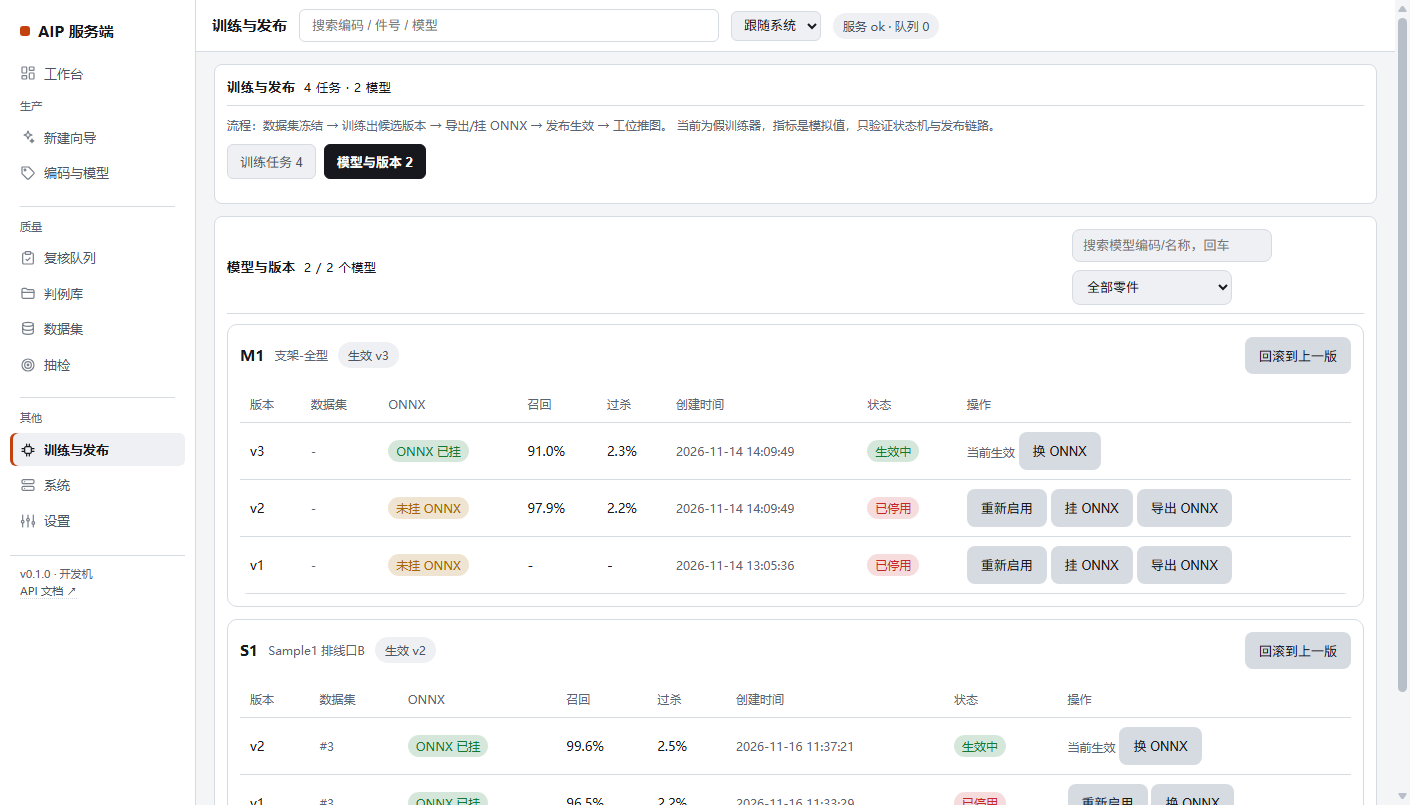
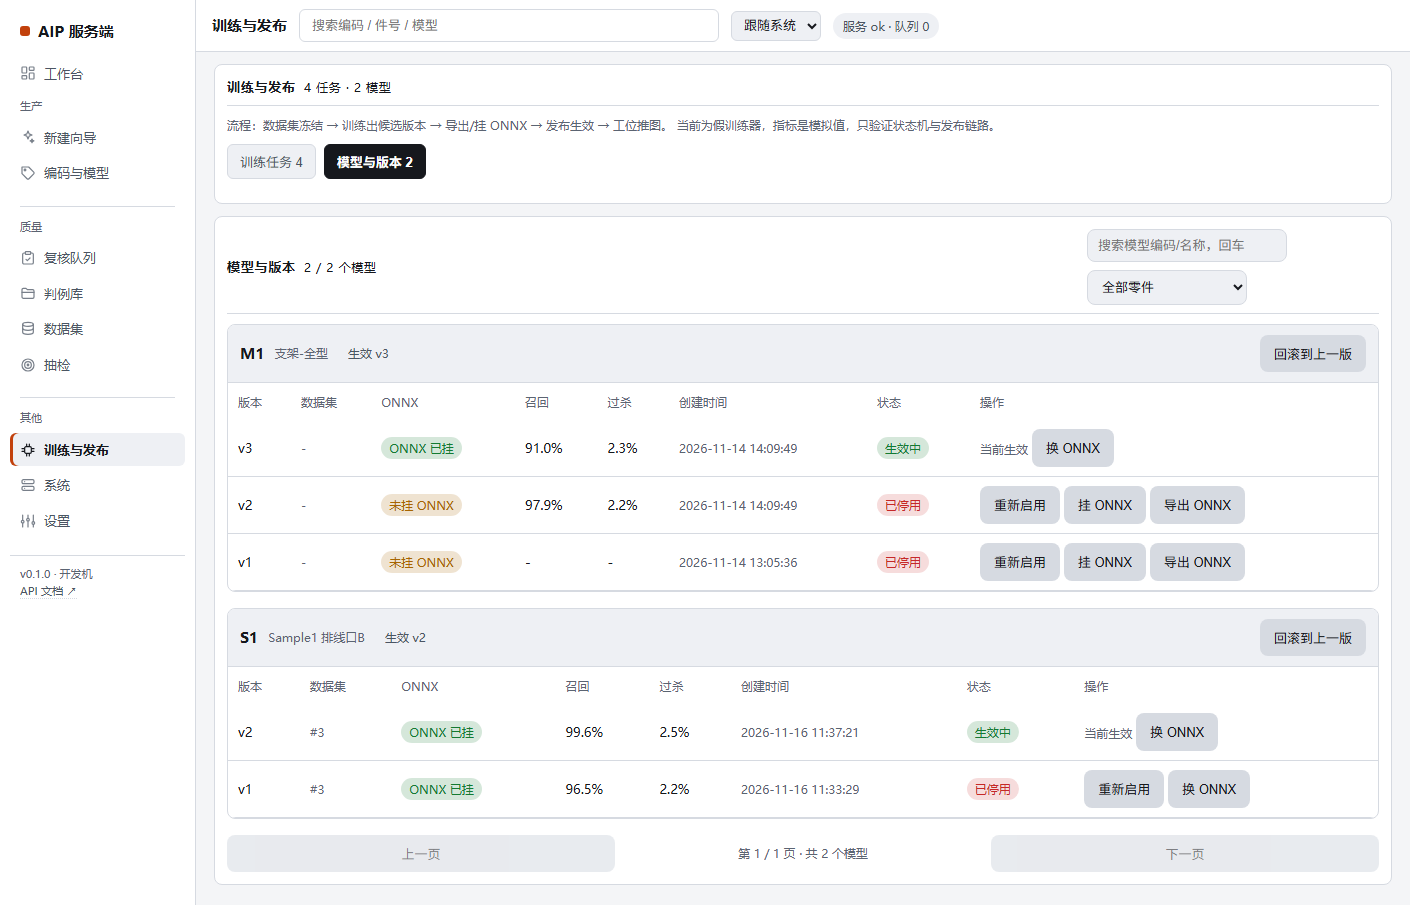
style: 模型与版本改为独立卡片（表头带 + 16px 分隔），信息归属更清楚

diff --git a/aip/web/admin.html b/aip/web/admin.html
@@ -308,9 +308,9 @@
   .todo-hint{font-size:12px;color:var(--t3)}
   .filterbar{display:flex;gap:10px;flex-wrap:wrap;align-items:center;margin:0 0 12px}
   .filterbar input,.filterbar select{flex:0 0 auto}
-  .model-block{border:1px solid var(--g3);border-radius:10px;padding:12px;margin-bottom:12px;background:var(--g1)}
-  .model-head{display:flex;align-items:center;gap:10px;margin-bottom:8px;flex-wrap:wrap}
-  .model-block table{margin-top:4px}
+  .model-block{border:1px solid var(--g3);border-radius:8px;padding:0;margin-bottom:16px;background:var(--g1);overflow:hidden}
+  .model-head{display:flex;align-items:center;gap:10px;margin:0;padding:10px 12px;background:var(--g2);border-bottom:1px solid var(--g3);flex-wrap:wrap}
+  .model-block table{margin:0}
   td button{min-height:38px;padding:8px 14px}
   .savebar[hidden]{display:none}
   .savebar{position:sticky;bottom:0;display:flex;align-items:center;gap:12px;background:var(--g1);border:1px solid var(--g3);border-radius:12px;padding:12px 16px;box-shadow:var(--shadow-bar)}
